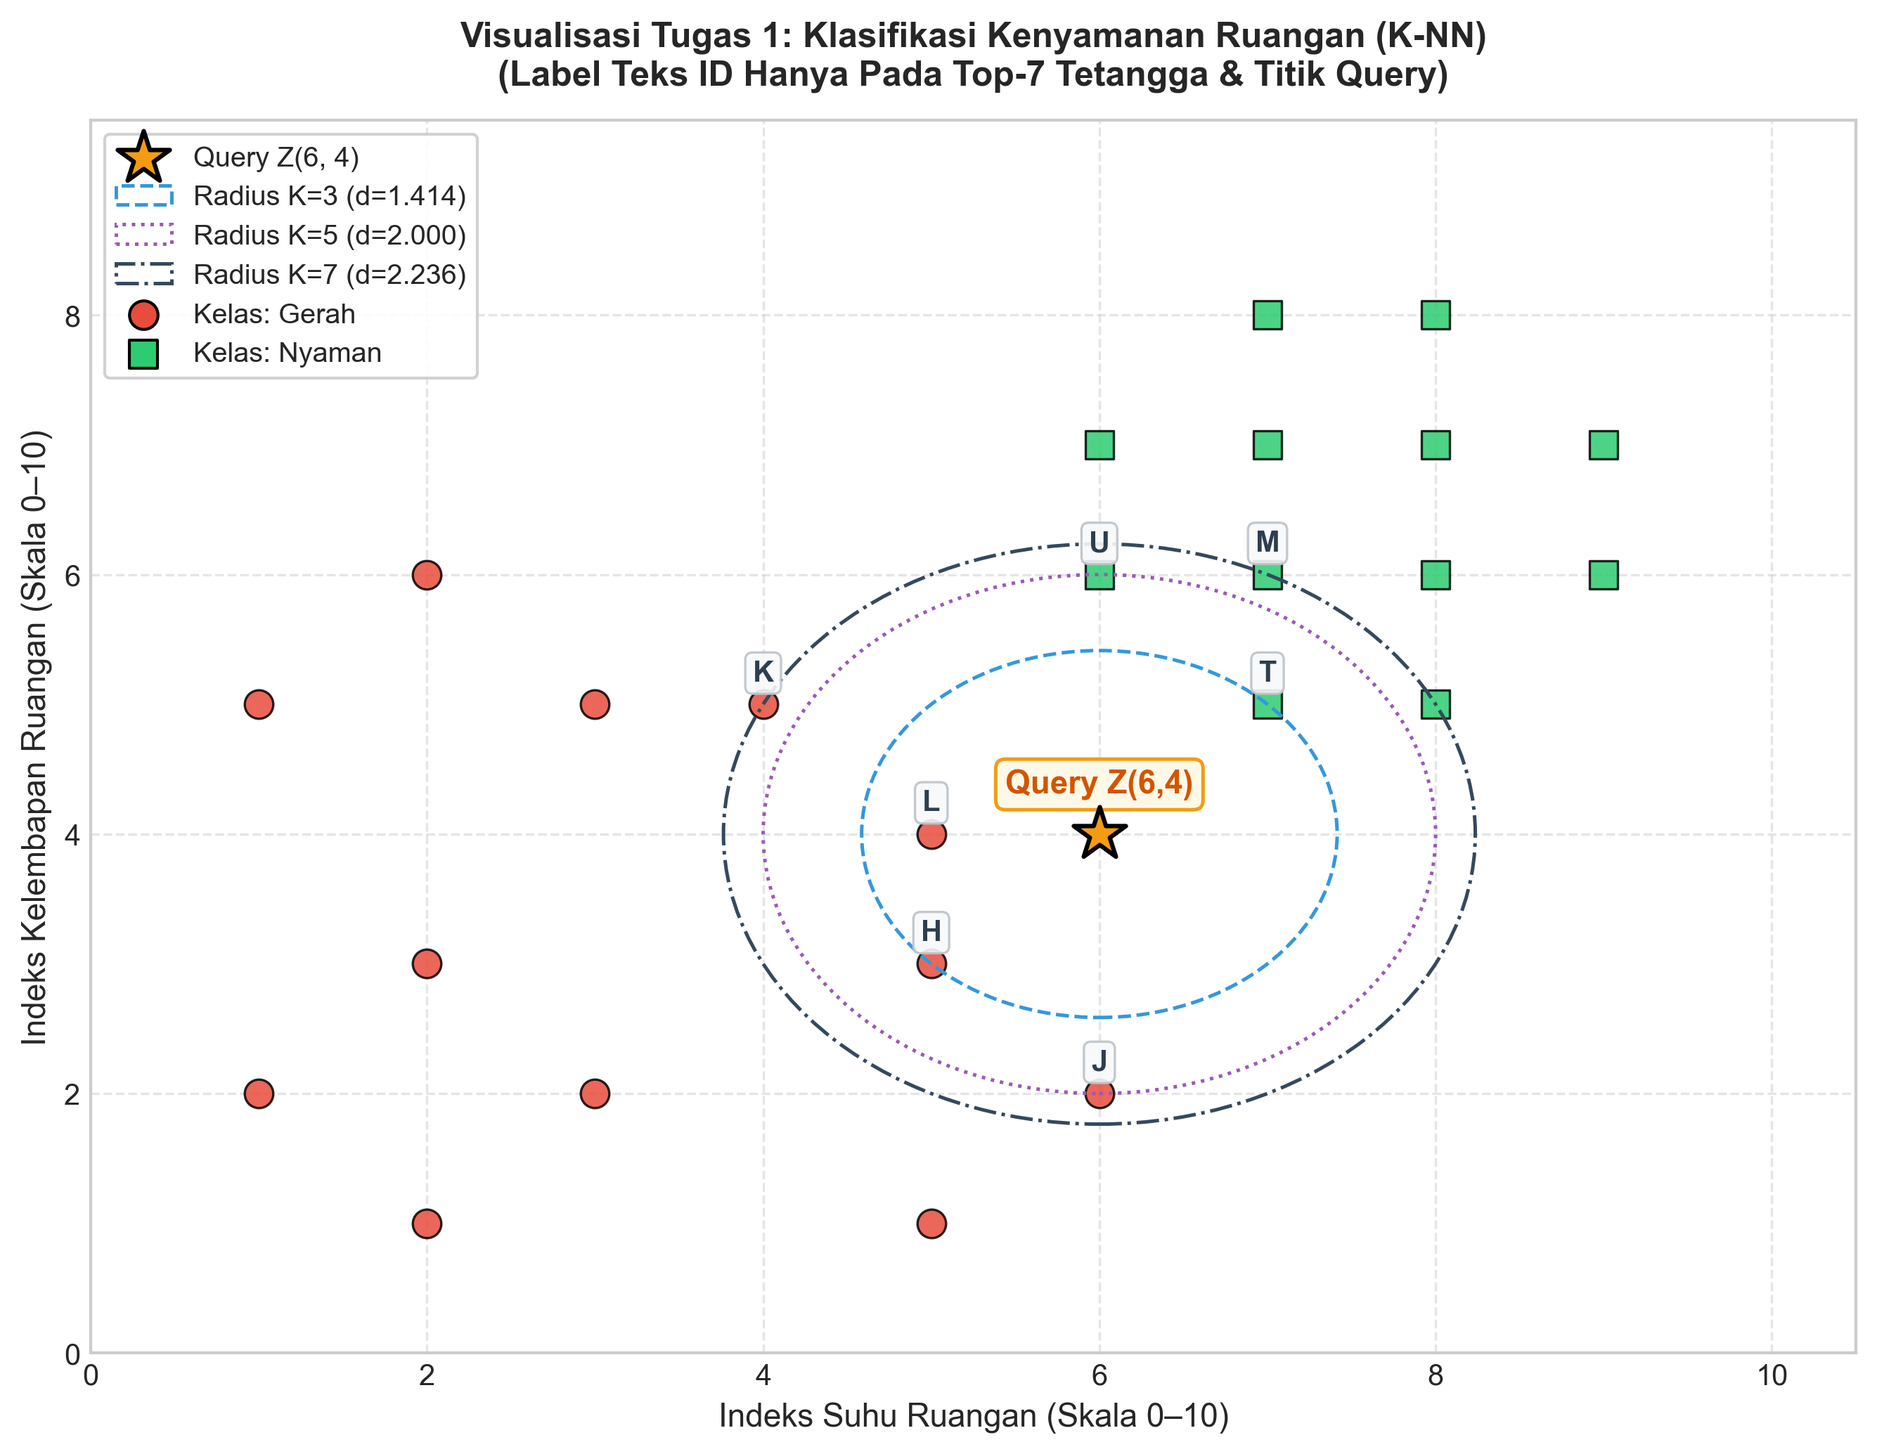
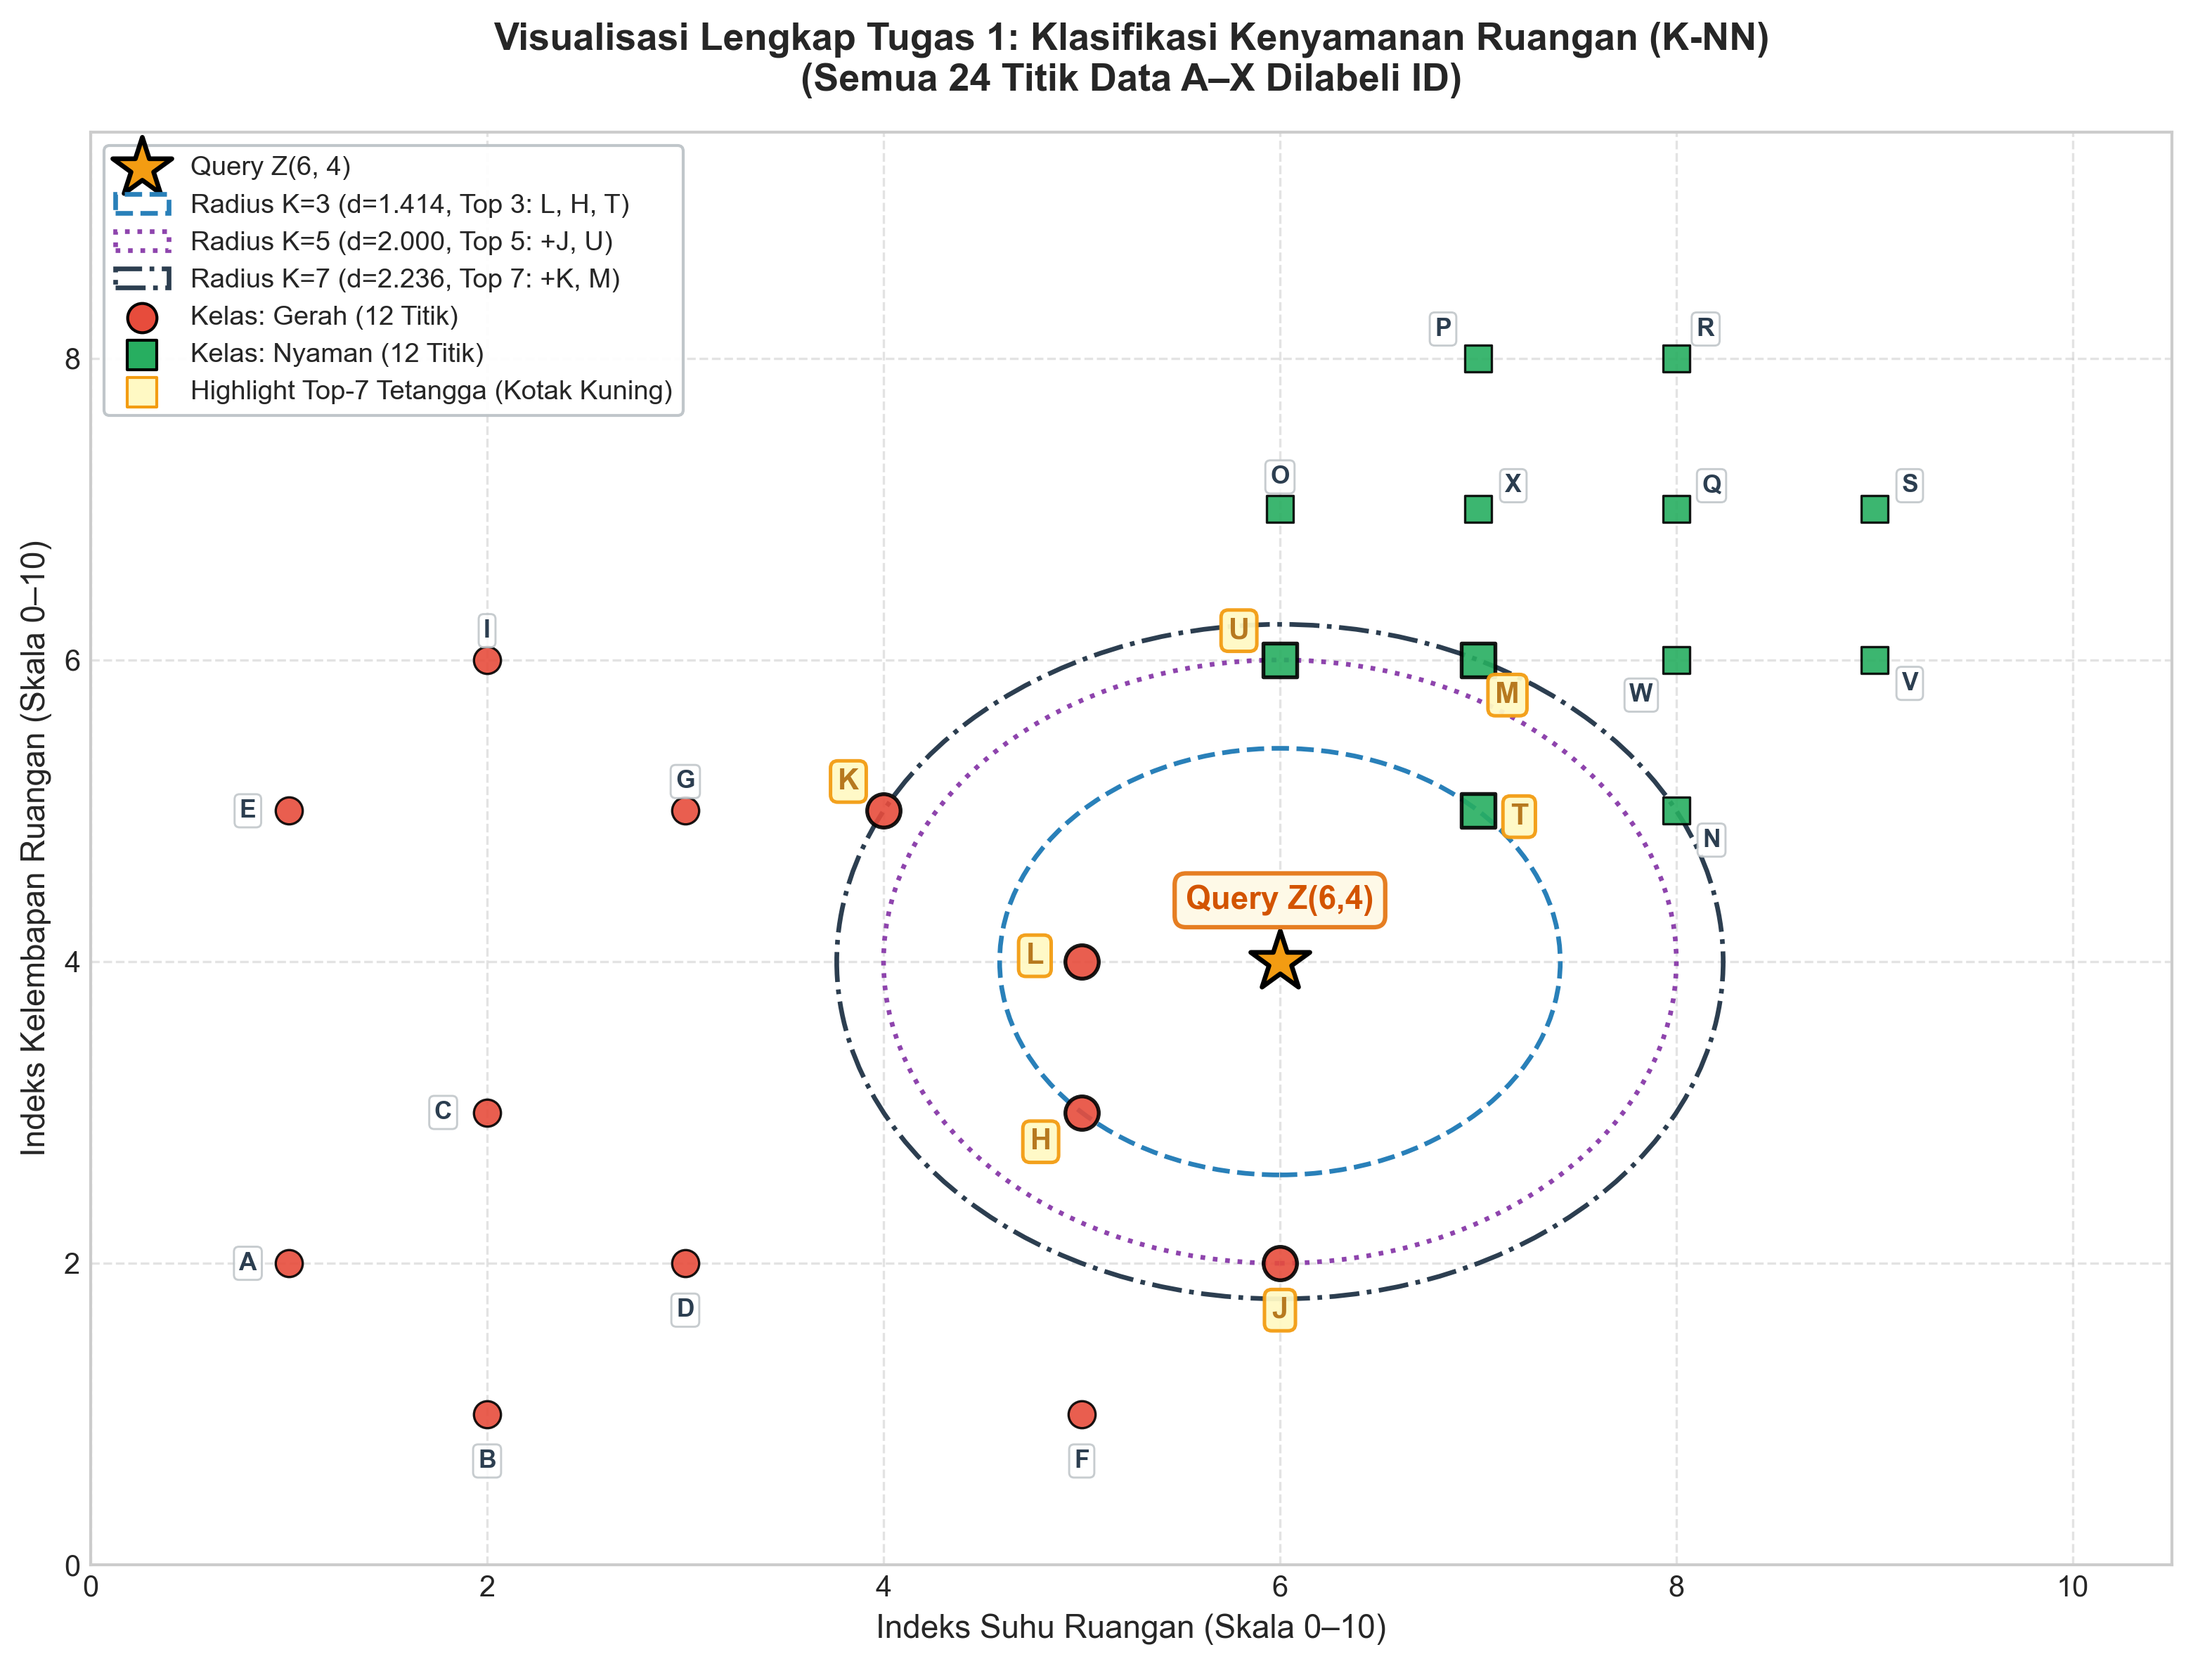
Update K-NN documentation with enhanced visualizations and detailed labeling for clarity

diff --git a/Week_7/JAWABAN_TUGAS_MANDIRI_KNN.md b/Week_7/JAWABAN_TUGAS_MANDIRI_KNN.md
@@ -157,11 +157,11 @@ Tabel ini telah diurutkan dari jarak terdekat ke terjauh dengan menerapkan atura
 
 ### 2.4 Tahap 5: Visualisasi Scatter Plot
 
-Grafik sebaran data latih, letak Query $Z(6, 4)$, lingkaran radius $K=3, 5, 7$, serta sorotan pada 7 tetangga terdekat ditampilkan langsung pada gambar berikut:
+Grafik sebaran data latih, letak Query $Z(6, 4)$, lingkaran radius $K=3, 5, 7$, serta identitas seluruh 24 titik data ditampilkan langsung pada gambar berikut:
 
 ![Visualisasi Tugas 1: Klasifikasi Kenyamanan Ruangan](./visualisasi_tugas1_km.png)
 
-*Catatan Tampilan:* Sesuai regulasi tugas $N > 20$, hanya titik Query $Z(6,4)$ dan 7 tetangga terdekat ({L, H, T, J, U, K, M}) yang dilabeli teks ID agar keterbacaan grafik tetap bersih dan informatif. Lingkaran putus-putus menunjukkan batas radius tetangga untuk variasi nilai $K$.
+*Catatan Tampilan:* Seluruh 24 titik data ($A$ s/d $X$) telah diberi label teks ID secara lengkap. Titik Query $Z(6,4)$ ditandai dengan bintang oranye, 7 tetangga terdekat ({L, H, T, J, U, K, M}) disorot dengan kotak label kuning emas (*highlighted*), dan titik lainnya berlabel putih bersih. Garis lingkaran putus-putus menunjukkan batas radius pencarian untuk $K=3$ ($d=1.414$), $K=5$ ($d=2.000$), dan $K=7$ ($d=2.236$).
 
 ---
 
@@ -331,11 +331,11 @@ Tabel ini telah diurutkan dari jarak terdekat ke terjauh dengan menerapkan atura
 
 ### 3.4 Tahap 5: Visualisasi Scatter Plot
 
-Visualisasi sebaran data regresi beserta nilai target konsumsi energi listrik (skala gradasi warna *coolwarm*), lingkaran radius $K=3$ dan $K=5,7$, serta penanda Query $Z(5.5, 2.5)$ ditampilkan langsung pada gambar berikut:
+Visualisasi sebaran data regresi beserta nilai target konsumsi energi listrik (skala gradasi warna *coolwarm*), lingkaran radius $K=3$ dan $K=5,7$, serta identitas seluruh 24 titik data ditampilkan langsung pada gambar berikut:
 
 ![Visualisasi Tugas 2: Regresi Konsumsi Energi Lab](./visualisasi_tugas2_rm.png)
 
-*Catatan Tampilan:* Sesuai regulasi tugas $N > 20$, hanya titik Query $Z(5.5, 2.5)$ dan 7 tetangga terdekat ({J, K, P, D, E, I, L}) yang dilabeli teks ID beserta nilai kWh targetnya agar keterbacaan grafik tetap optimal dan bersih. Lingkaran putus-putus menggambarkan batas radius pencarian tetangga terdekat.
+*Catatan Tampilan:* Seluruh 24 titik data ($A$ s/d $X$) dilabeli lengkap dengan format `ID: Nilai kWh`. Titik Query $Z(5.5, 2.5)$ ditandai dengan bintang kuning besar, 7 tetangga terdekat ({J, K, P, D, E, I, L}) disorot dengan label kuning emas (*highlighted*), dan titik lainnya berlabel putih rapi. Lingkaran putus-putus menggambarkan batas radius pencarian tetangga terdekat.
 
 ---
 

diff --git a/DANISH_AI_AGENT.md b/DANISH_AI_AGENT.md
@@ -35,7 +35,9 @@ Machine learning coursework repository covering supervised learning implementati
 - Windows CP1252 terminal encoding can throw `UnicodeEncodeError` when printing Unicode characters (e.g. arrows, math symbols); always set UTF-8 encoding in Python scripts (`sys.stdout.reconfigure(encoding='utf-8')`).
 - Omitting the tie-breaking explanation causes a standard -20% grading deduction in KNN assignments.
 
-- 2026-10-17: Embedded direct visualisasi_tugas1_km.png and visualisasi_tugas2_rm.png into JAWABAN_TUGAS_MANDIRI_KNN.md with 2-table formats (A-X raw with Rank and sorted Rank 1-24).
+## Changelog (newest first, 1 line per entry, NOT a diff)
+- 2026-10-17: Regenerated visualisasi_tugas1_km.png and visualisasi_tugas2_rm.png with full labels for all 24 points (A-X) and golden badge highlights for Top-7 neighbors.
+- 2026-10-17: Embedded direct images into JAWABAN_TUGAS_MANDIRI_KNN.md with 2-table formats (A-X raw with Rank and sorted Rank 1-24).
 - 2026-10-17: Computed and documented complete 6-stage solutions for Week 7 KNN assignments (KM & RM, N=24) with Python scikit-learn verification in JAWABAN_TUGAS_MANDIRI_KNN.md.
 - 2026-10-17: Transcribed and rewritten Week 7 KNN module into pure-lesson markdown (MODUL_PEKAN_05_KNN.md) highlighting student assignments.
 - 2026-10-17: Initialized DANISH_AI_AGENT.md context file mapping repository architecture, coursework across Week 3, 4, and 7, and KNN assignment requirements.
